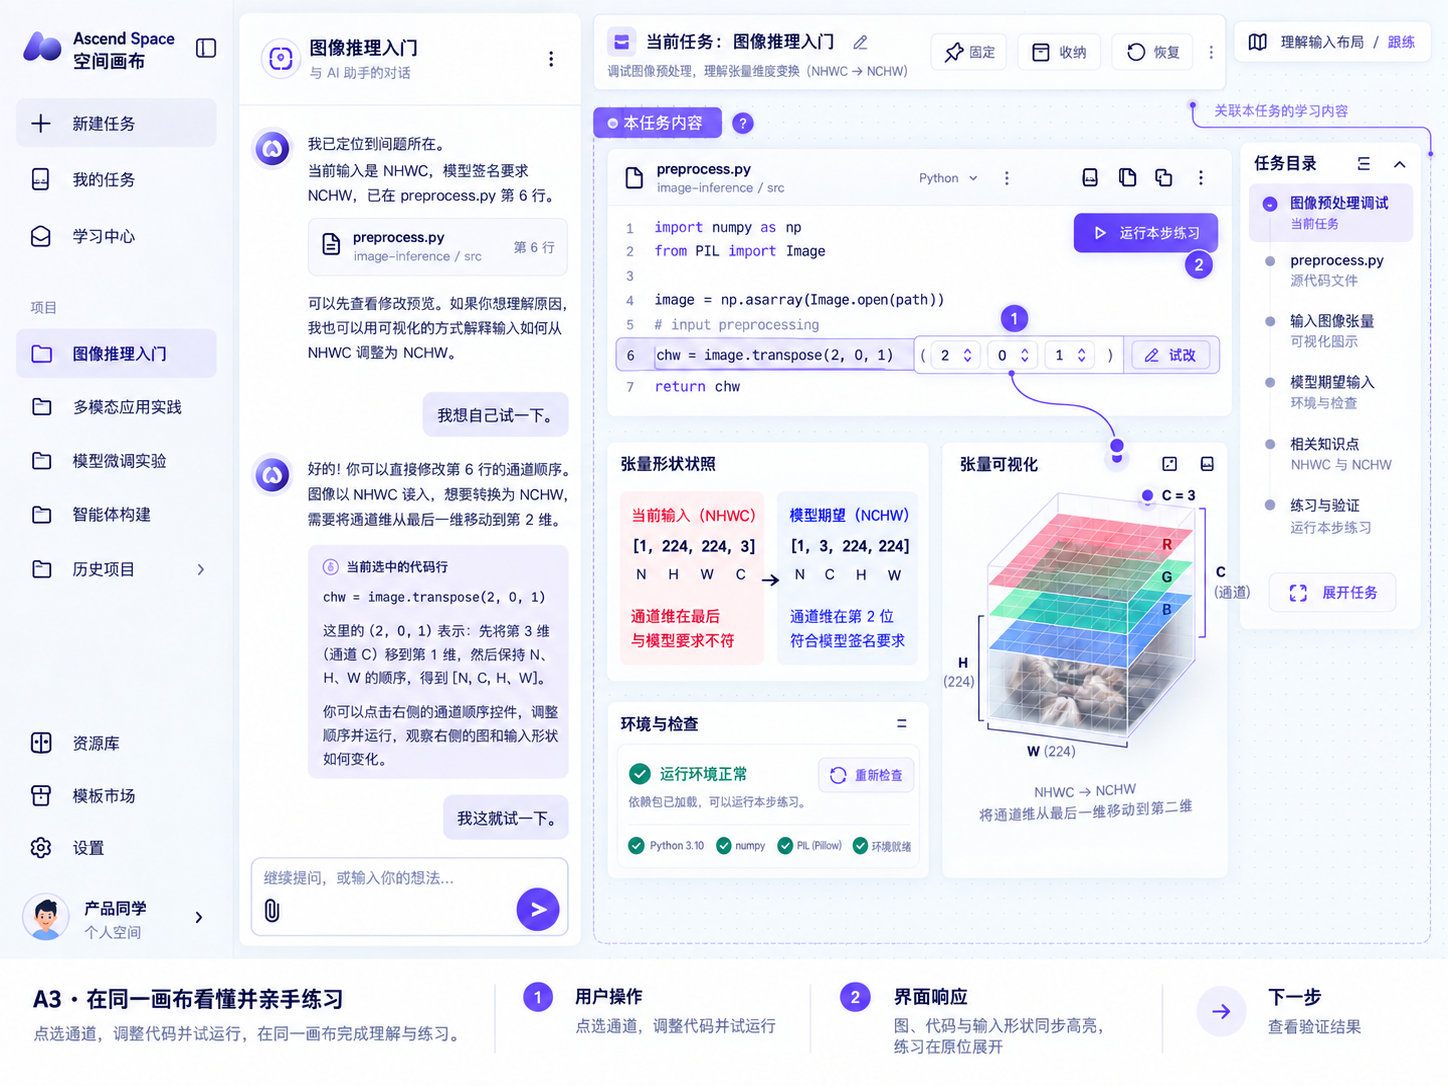
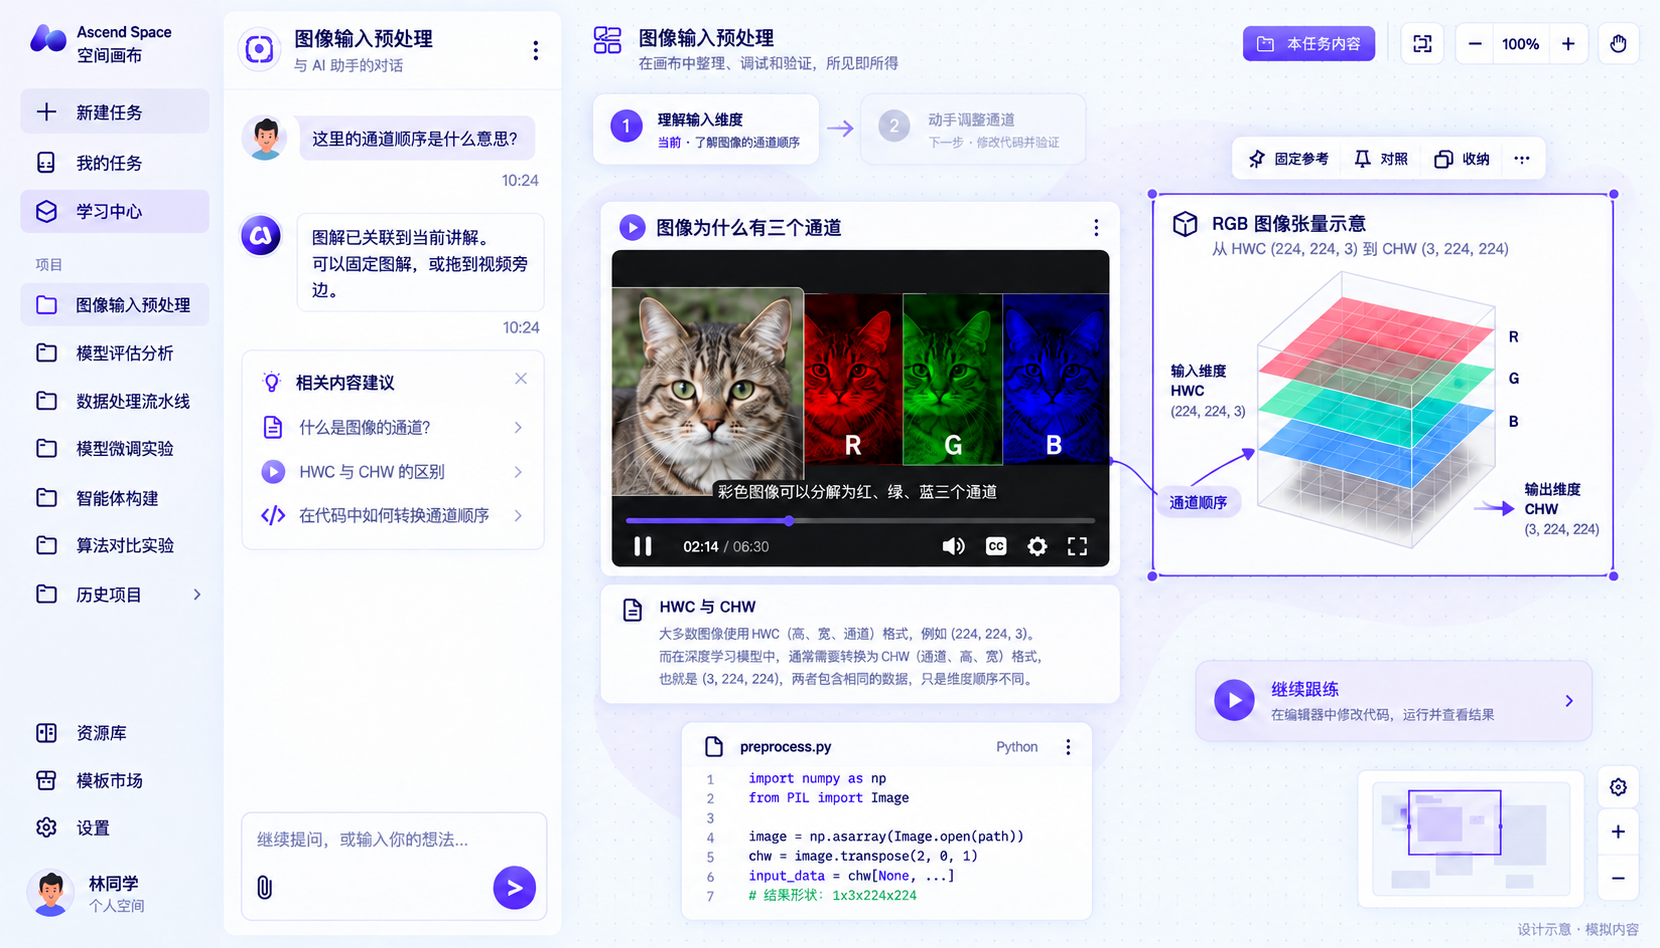
feat: add B route task try design point

diff --git a/cann-dashboard/ploy-interaction-lab/learning-canvas-story/index.html b/cann-dashboard/ploy-interaction-lab/learning-canvas-story/index.html
@@ -390,7 +390,7 @@ body.overview.story-deck .hero-shot,body.overview.story-deck .detail-image{point
 </head>
 <body class="story-deck">
 <div id="deck">
-<section class="slide s-cover" data-title="让学习在合适的时机发生"><div class="cv-bg"></div><div class="cv-overlay"></div><div class="cv-content"><div class="cv-top"><img class="cv-logo" src="../../../Ascendlogo.svg" alt="昇腾"></div><div class="cv-center"><div class="cv-kicker">SPATIAL LEARNING WORKSPACE</div><h1 class="cv-name"><span class="cv-line">让学习在合适的时机</span><span>发生</span></h1><p class="cv-lead">主动学习与开发中学习的两条完整故事线<br>每一步：用户操作 · 界面响应 · 设计点 · 画布管理</p><div class="cover-links"><a href="#6">主动学习 →</a><a href="#17">开发中学习 →</a><a href="#28">共用机制 →</a></div></div><div class="cv-bot"><span>10 张关键状态图 · 28 页 · 大图与设计说明配对</span></div></div></section>
+<section class="slide s-cover" data-title="让学习在合适的时机发生"><div class="cv-bg"></div><div class="cv-overlay"></div><div class="cv-content"><div class="cv-top"><img class="cv-logo" src="../../../Ascendlogo.svg" alt="昇腾"></div><div class="cv-center"><div class="cv-kicker">SPATIAL LEARNING WORKSPACE</div><h1 class="cv-name"><span class="cv-line">让学习在合适的时机</span><span>发生</span></h1><p class="cv-lead">主动学习与开发中学习的两条完整故事线<br>每一步：用户操作 · 界面响应 · 设计点 · 画布管理</p><div class="cover-links"><a href="#6">主动学习 →</a><a href="#17">开发中学习 →</a><a href="#30">共用机制 →</a></div></div><div class="cv-bot"><span>10 张关键状态图 · 30 页 · 大图与设计说明配对</span></div></div></section>
 <section class="slide s-gray intro-page" data-title="Ploy 将观察到的变化，变成用户可以接手的行动" data-template="image-text-sm2"><div class="head"><div class="head-l"><div class="brand"><span class="ttl">Ploy 将观察到的变化，变成用户可以接手的行动</span></div><div class="subttl">主动交互 · 从产品观察到设计选择</div></div><div class="section-tabs"><span class="active">主动交互</span><span class="">主动学习</span><span class="">开发中学习</span><span class="">共用机制</span></div></div><div class="body-area"><div class="sm2"><div class="sm2-left"><h2>主动交互的起点：<br>AI 先发现值得处理的事</h2><p><b>返回即看见待处理事项：</b>For you 主动列出广告追踪缺失、流量下降等情况。Recents 与 Scheduled Ploybooks 同屏，区分近期工作与未来安排。</p><p><b>建议带着依据：</b>Google Ads 卡片解释已连接服务但未检测到追踪标签，并说明对转化归因的影响；Why this 标注关联来源。</p><p><b>用户可以接住或关闭：</b>Run Ploy 紧贴建议，右上角有关闭入口。理由、对象与下一步集中呈现，用户可当场决定是否继续。</p><div class="cx-concl">设计启发：用“变化 → 原因 → 下一步”组织主动建议，让用户能当场判断是否值得继续。</div></div><div class="intro-media"><button class="intro-shot" data-enlarge="images/ploy-overview-user.png" aria-label="放大：用户提供的 Ploy Overview：For you 主动建议、Recents、Scheduled Ploybooks"><img src="images/ploy-overview-user.png" alt="用户提供的 Ploy Overview：For you 主动建议、Recents、Scheduled Ploybooks"></button></div></div></div><div class="foot"><span class="intro-foot-caption">用户提供的完整产品截图 · 点击放大。Scheduled 表示计划安排；截图未证明任务已执行或通知已送达。</span><span class="intro-foot-meta">可见界面观察 · <a href="images/ploy-overview-user.png" target="_blank">用户提供原图 ↗</a> · <a href="https://www.youtube.com/watch?v=jMrT76x2RM8" target="_blank" rel="noopener">相关官方演示 ↗</a> · 此图时间点未核定</span></div></section>
 <section class="slide s-gray intro-page" data-title="主动推进到哪里，由用户理解并控制" data-template="image-text-sm2"><div class="head"><div class="head-l"><div class="brand"><span class="ttl">主动推进到哪里，由用户理解并控制</span></div><div class="subttl">主动交互 · 从产品观察到设计选择</div></div><div class="section-tabs"><span class="active">主动交互</span><span class="">主动学习</span><span class="">开发中学习</span><span class="">共用机制</span></div></div><div class="body-area"><div class="sm2"><div class="sm2-left"><h2>把“先做准备”和<br>“正式生效”分开</h2><p><b>持续服务有明确范围：</b>Agent permissions 直接说明该站点有哪些动作可以无需确认。主动性与授权放在同一套交互里。</p><p><b>预览可以先行：</b>Preview only 允许产出预览，并明确写出生产发布仍需确认。用户可委托准备工作，保留正式生效前的决定权。</p><p><b>更大权限说明后果：</b>Preview + Production 旁直接交代无需确认上线，黄色提示贴近选项。用户在选择时就能理解影响。</p><div class="cx-concl">迁移原则：准备学习材料、隔离练习、修改原项目分别表达范围；正式修改前展示 Diff 并确认。</div></div><div class="intro-media"><button class="intro-shot" data-enlarge="../evidence/visual-sample/01-publishing-scope-official.webp" aria-label="放大：Ploy 站点 Agent permissions：预览与生产发布权限"><img src="../evidence/visual-sample/01-publishing-scope-official.webp" alt="Ploy 站点 Agent permissions：预览与生产发布权限"></button></div></div></div><div class="foot"><span class="intro-foot-caption">官方文档产品截图 · 当前选中 Preview only，不表示首次默认值。点击查看完整大图；本轮未登录操作或执行发布。</span><span class="intro-foot-meta">H · <a href="https://docs.ploy.ai/publishing" target="_blank" rel="noopener">Publishing 官方说明 ↗</a> · 学习迁移为设计提案</span></div></section>
 <section class="slide s-gray intro-page" data-title="Vibe Coding 让开发者从 IDE 进入 AI Workspace" data-template="image-text-sm2"><div class="head"><div class="head-l"><div class="brand"><span class="ttl">Vibe Coding 让开发者从 IDE 进入 AI Workspace</span></div><div class="subttl">主动交互 · 从产品观察到设计选择</div></div><div class="section-tabs"><span class="active">主动交互</span><span class="">主动学习</span><span class="">开发中学习</span><span class="">共用机制</span></div></div><div class="body-area"><div class="sm2"><div class="sm2-left"><h2>从写代码的 IDE，<br>转向共同完成任务的 Workspace</h2><p><b>现场发生变化：</b>Vibe Coding 普及后，开发者从逐行写代码，转向围绕目标与 AI 协作完成任务。</p><p><b>不只生成代码：</b>任务、对话、Diff 和运行结果需要持续关联，开发者要随时知道改了什么、为什么改、是否可接受。</p><p><b>Workspace 的价值：</b>把意图、改动和验证留在同一现场，减少在 IDE、对话和结果之间反复切换。</p><div class="cx-concl">设计启发：先统一任务现场，再在其中插入学习、解释和局部操作。</div></div><div class="intro-media"><button class="intro-shot" data-enlarge="images/codex-workspace-user.png" aria-label="放大：用户提供的 Codex Workspace 界面"><img src="images/codex-workspace-user.png" alt="用户提供的 Codex Workspace 界面"></button></div></div></div><div class="foot"><span class="intro-foot-caption">用户提供的 Codex Workspace 界面截图 · 用于说明 AI 编码工作现场，不作为 Codex 功能全集或实际运行证据。</span><span class="intro-foot-meta">用户提供界面参考 · AI Workspace 趋势判断为设计背景 · <a href="#5">下一步：看 Ploy 的对象级交互 →</a></span></div></section>
@@ -505,6 +505,8 @@ body.overview.story-deck .hero-shot,body.overview.story-deck .detail-image{point
 <div class="points"><div class="point"><h2 class="pt-title">1. 回到原任务验证</h2><p class="pt-desc">使用项目中的修改后文件检查输入，结果与项目日志相连，完成从练习到实际文件的交接。</p></div><div class="point"><h2 class="pt-title">2. 完成状态分层</h2><p class="pt-desc">练习通过、修改应用、项目输入通过分别呈现；完整推理尚待执行。</p></div><div class="point"><h2 class="pt-title">3. 收纳后仍可复用</h2><p class="pt-desc">学习组从当前画布移出，任务保留其索引和原位置；需要时整组恢复。</p></div></div>
 <p class="continuity"><b>画布管理</b><br>原文件与项目结果留在画布；学习组进入可关闭的收纳浮层，支持恢复／撤销。</p><p class="continuity"><b>下一步</b><br>继续运行完整推理；若出现新的问题，在同一任务中再次展开相关学习。</p></div>
 <button class="detail-image shot" data-enlarge="images/B5.png" aria-label="放大B5界面"><img src="images/B5.png" alt="显示项目输入检查结果与日志；学习组可恢复，完整推理仍标记待运行。"></button></div></section>
+<section class="slide s-glow hero-step" data-template="glow-design-point" data-title="B6 · 任务中试改 · 大图"><div class="glow"></div><div class="hero-inner"><header class="hero-heading"><div><div class="step-meta">开发中学习 / B6 / 任务中试改</div><h1>在原任务现场先试改，再决定是否继续</h1></div><a href="#29">本步设计说明 →</a></header><button class="hero-shot" data-enlarge="images/B6-task-try.png" aria-label="查看 B6 任务中试改原图"><img src="images/B6-task-try.png" alt="在原任务现场先试改，再决定是否继续" decoding="async"></button><div class="hero-foot"><span>选中代码 · 参数试改 · 运行练习 · 结果关联</span><span>设计示意 · 点击图片放大</span></div></div></section>
+<section class="slide s-glow detail-step" data-template="glow-design-point" data-title="B6 · 任务中试改 · 设计说明"><div class="glow"></div><div class="chrome"><span>开发中学习 · B6 设计说明</span><span>界面提案 / 非实际运行</span></div><div class="inner"><div><h1 class="h-title">任务中试改<span class="light"> · 不离开原现场</span></h1><p class="body"><b>用户：</b>在当前项目中定位输入维度问题，先在选中的代码行上调整通道顺序，再运行本步练习观察结果。</p><div class="points"><div class="point"><h2 class="pt-title">1. 就地修改</h2><p class="pt-desc">参数控件紧贴选中的代码行，用户可以先试改，不必跳出当前任务重建上下文。</p></div><div class="point"><h2 class="pt-title">2. 结果同步可见</h2><p class="pt-desc">运行练习后，代码、张量形状对照与可视化结果保持在同一画布中，便于理解修改带来的变化。</p></div><div class="point"><h2 class="pt-title">3. 任务内容可管理</h2><p class="pt-desc">“本任务内容”保留当前代码、图解和练习的关联；固定、对照、收纳等操作不改变原项目文件。</p></div></div><p class="continuity"><b>画布管理</b><br>只对当前任务内容做局部试改；原文件、练习结果与后续修改建议保持状态区分。</p><p class="continuity"><b>下一步</b><br>进入隔离练习或查看修改建议，再决定是否回到项目应用修改。</p></div><button class="detail-image shot" data-enlarge="images/B6-task-try.png" aria-label="放大 B6 任务中试改界面"><img src="images/B6-task-try.png" alt="任务中试改界面"></button></div></section>
 <section class="slide s-gray" data-title="一套画布管理动作，贯穿两条学习故事线"><div class="head"><div class="head-l"><div class="brand"><span class="ttl">一套画布管理动作，贯穿两条学习故事线</span></div><div class="subttl">共用机制</div></div><div class="section-tabs"><span class="">主动交互</span><span class="">主动学习</span><span class="">开发中学习</span><span class="active">共用机制</span></div></div><div class="body-area"><div class="summary-wrap"><table class="summary-table"><thead><tr><th>交互</th><th>何时发生</th><th>用户能看见与控制什么</th><th>对应步骤</th></tr></thead><tbody><tr><td>自由展开</td><td>从当前问题或路径节点打开内容</td><td>新内容在相关对象附近展开；拖动／缩放由用户控制</td><td>A1、A3、B1、B2</td></tr><tr><td>轻分组</td><td>同一段学习包含多个对象</td><td>保留组名和关联；内部对象可自由排放</td><td>A3、B2</td></tr><tr><td>临时聚焦</td><td>用户选择需要并排对照的对象</td><td>仅选中内容进入对照；退出恢复原位置</td><td>A4、B3</td></tr><tr><td>固定参考</td><td>操作时需要保留原文件或结果</td><td>参考留在可见位置，不随下一步被自动收起</td><td>A3、B2–B4</td></tr><tr><td>折叠／收纳</td><td>完成当前活动或主动整理</td><td>折叠在画布留摘要；收纳移出画布但保留索引</td><td>A5、B4、B5</td></tr><tr><td>恢复／撤销</td><td>需要复习，或刚才收错内容</td><td>返回同一组及其关系、原位置；当前内容不被替换</td><td>A5、B5</td></tr></tbody></table><p class="summary-note"><b>稳定性规则：</b>阅读时不自动移动对象；完成、继续、退出对照或手动整理后才调整布局。收纳不等于删除，确认路径不等于应用项目代码。<br><b>验证重点：</b>用户能否找到原文件、区分副本与正式修改、恢复收纳内容，以及说清当前通过的是哪一项检查。</p></div></div><div class="foot">设计提案 · 尚未实现自由画布运行时 · <a href="../proactive-research.html#17">返回 Ploy 研究材料</a></div></section>
 </div>
 <!-- 调色面板（JS 会把它挂到当前黑底章节封面页内）-->

diff --git a/cann-dashboard/ploy-interaction-lab/learning-canvas-story/README.md b/cann-dashboard/ploy-interaction-lab/learning-canvas-story/README.md
@@ -2,7 +2,7 @@
 
 [打开网页 PPT](https://schihhsin.github.io/AscendCANN/cann-dashboard/ploy-interaction-lab/learning-canvas-story/index.html)
 
-28 页；#2–5 均为真实产品参考分析：用户提供的 Ploy Overview、官方权限设置、对话与产物同屏、对象标注。支持放大与来源跳转；封面也不再使用自有设计图。#6 起进入用户旅程，#7 起展示方案大图。既有 Ploy 研究 #17 / #18 提供入口，原交互 Demo 保留。
+30 页；#2–5 均为真实产品参考分析：用户提供的 Ploy Overview、官方权限设置、对话与产物同屏、对象标注。支持放大与来源跳转；封面使用方案设计图 A1。#6 起进入用户旅程，#7 起展示方案大图；B 路线末尾新增 B6“任务中试改”设计点。既有 Ploy 研究 #17 / #18 提供入口，原交互 Demo 保留。
 
 | 内容 | 页码 |
 |---|---|
@@ -21,7 +21,8 @@
 | B3 隔离跟练 | 22–23 |
 | B4 应用修改 | 24–25 |
 | B5 返回验证 | 26–27 |
-| 共用画布管理机制 | 28 |
+| B6 任务中试改 | 28–29 |
+| 共用画布管理机制 | 30 |
 
 ## 内容边界
 
@@ -34,7 +35,7 @@
 ## 文件与复现
 
 - `images/codex-workspace-user.png`：用户提供的 Codex Workspace 界面参考，用于第 4 页的 Vibe Coding / AI Workspace 背景说明。
-- `images/A1.png`–`A5.png`、`B1.png`–`B5.png`：新的完整故事线图片；旧稿不覆盖。
+- `images/A1.png`–`A5.png`、`B1.png`–`B5.png`：新的完整故事线图片；`images/B6-task-try.png`：开发中学习新增的任务中试改设计点。
 - `story-data.mjs`：每步操作、响应、设计点、画布规则和下一步。
 - `source/image-prompts.json`：内置 ImageGen 提示词、最终图映射及修正记录。
 - `source/deck-template.html`、`source/user-journey-template.html`：Report PPT Skill 原始模板快照。
